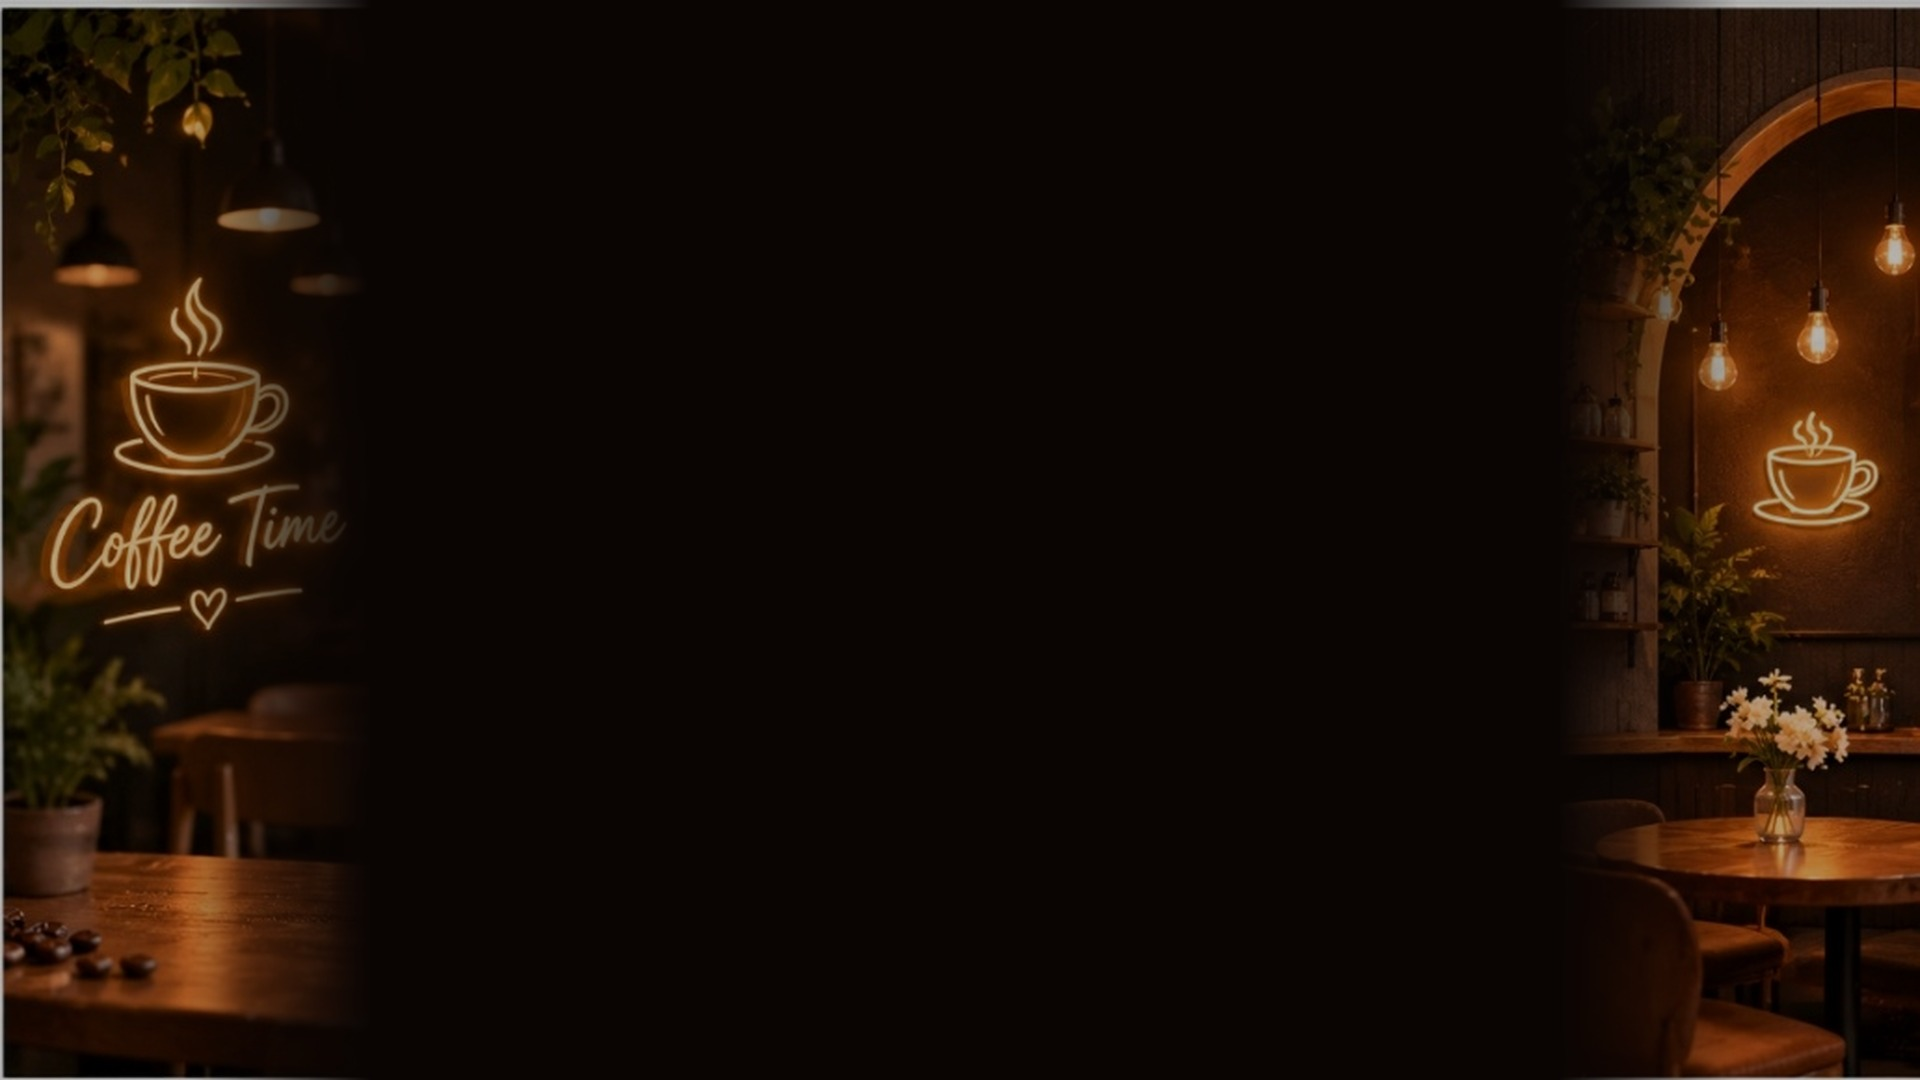
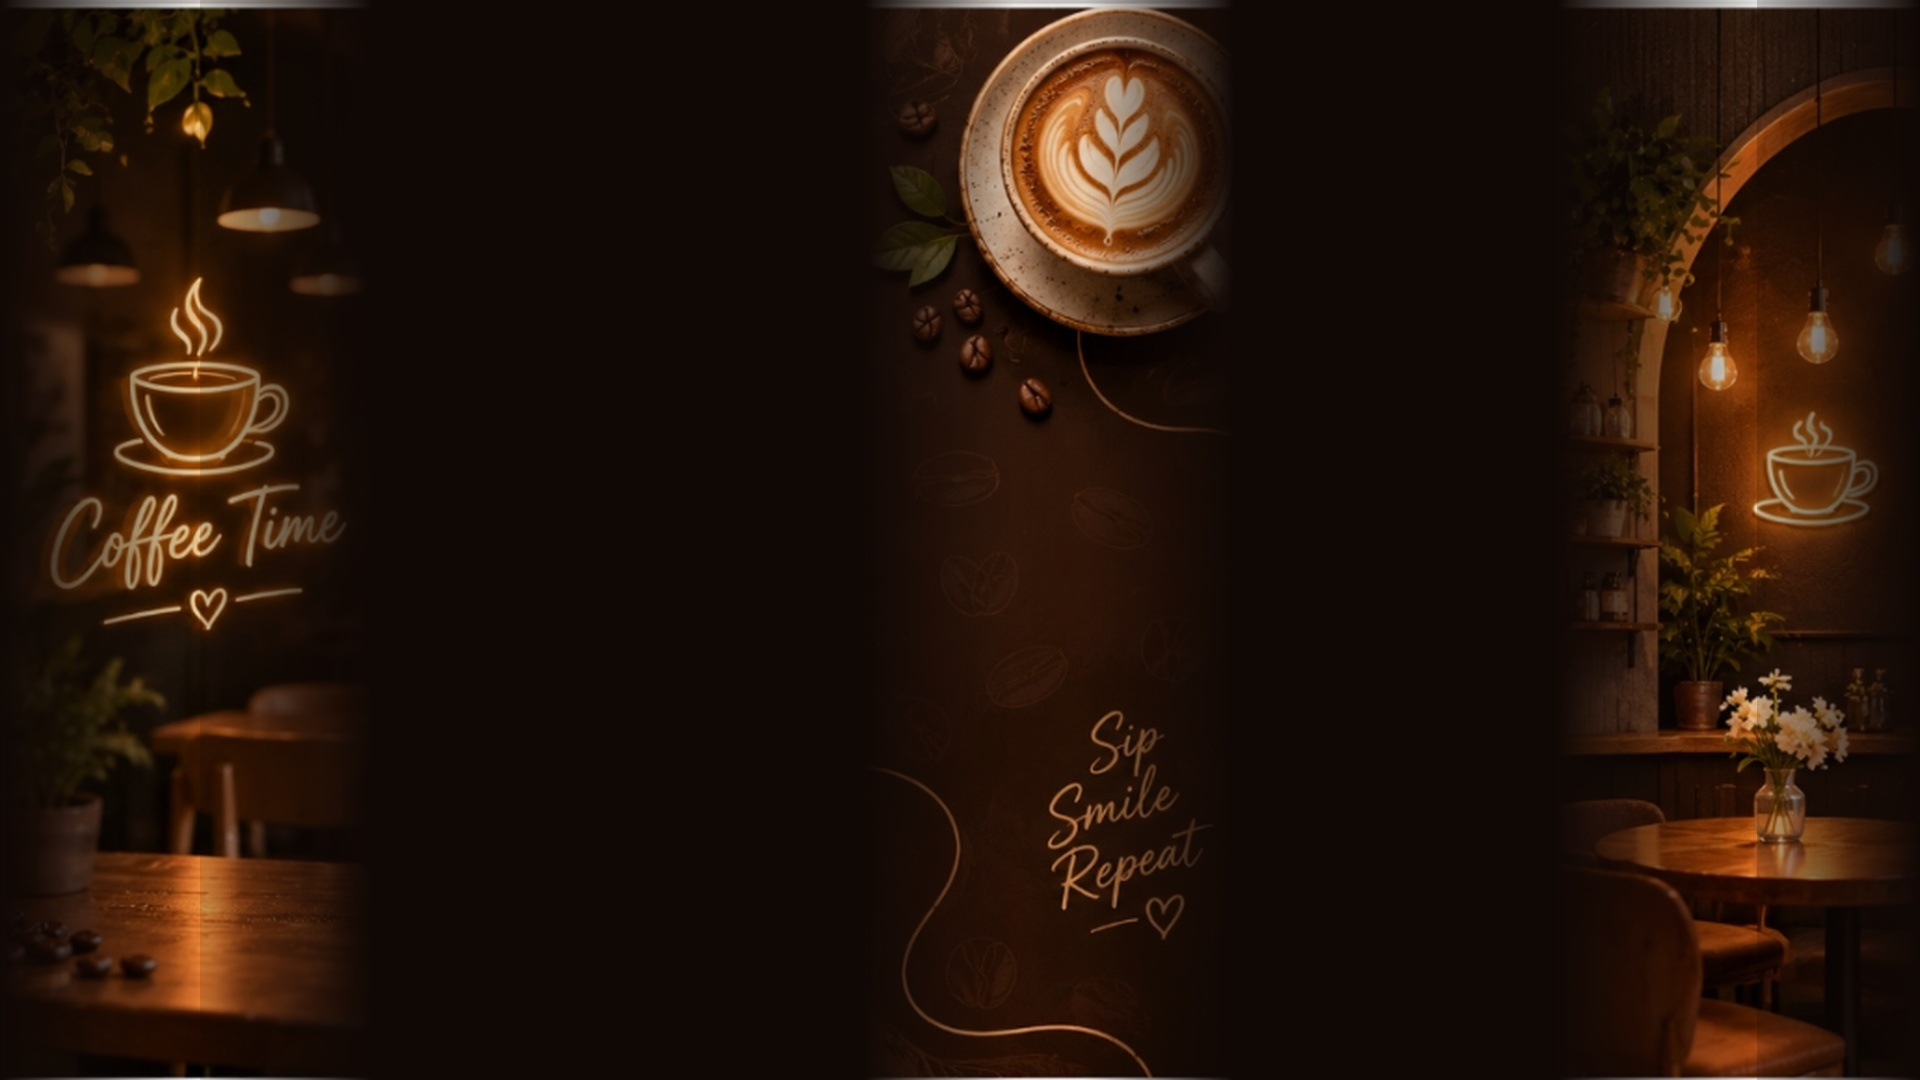
fix(ui): unblock background image visibility with subtle dark luxury overlay and enable runOnSave

diff --git a/components/styles.py b/components/styles.py
@@ -58,25 +58,27 @@ def get_custom_css() -> str:
     --font-serif: "Playfair Display", Georgia, serif;
 }
 
-/* ===== APP BACKGROUND (RICH CAFE ITEM IMAGERY & AMBIENT COFFEE LIGHTING) ===== */
-html, body, [data-testid="stAppViewContainer"] {
-    background: 
-        linear-gradient(180deg, rgba(10, 5, 3, 0.86) 0%, rgba(18, 9, 6, 0.88) 40%, rgba(8, 4, 2, 0.94) 100%),
-        radial-gradient(circle at 12% 15%, rgba(184, 112, 62, 0.22) 0%, transparent 45%),
-        radial-gradient(circle at 88% 20%, rgba(212, 169, 106, 0.18) 0%, transparent 45%),
-        radial-gradient(ellipse at 50% 0%, #201008 0%, #110804 50%, #080402 100%),
-        __BG_IMAGE_URL__ center center / cover no-repeat fixed !important;
+/* ===== APP BACKGROUND (DARK LUXURY & MINIMAL COFFEE AMBIENT WALLPAPER) ===== */
+.stApp, [data-testid="stAppViewContainer"] {
+    background-image: 
+        linear-gradient(180deg, rgba(14, 7, 4, 0.58) 0%, rgba(18, 9, 5, 0.68) 45%, rgba(10, 5, 3, 0.80) 100%),
+        radial-gradient(circle at 15% 20%, rgba(220, 140, 70, 0.15) 0%, transparent 50%),
+        radial-gradient(circle at 85% 25%, rgba(220, 160, 90, 0.12) 0%, transparent 50%),
+        __BG_IMAGE_URL__ !important;
+    background-position: center center !important;
+    background-size: cover !important;
+    background-repeat: no-repeat !important;
     background-attachment: fixed !important;
     color: var(--cream) !important;
     font-family: var(--font-sans) !important;
     -webkit-font-smoothing: antialiased;
 }
 
-[data-testid="stApp"] {
+[data-testid="stHeader"] {
     background: transparent !important;
 }
 
-[data-testid="stMain"] {
+[data-testid="stApp"], [data-testid="stMain"], .main, section.main {
     background: transparent !important;
 }
 
